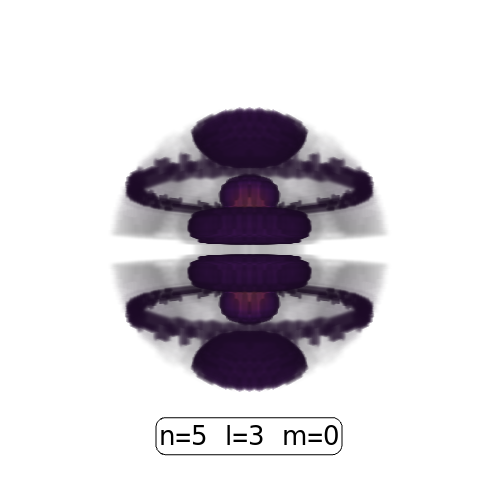
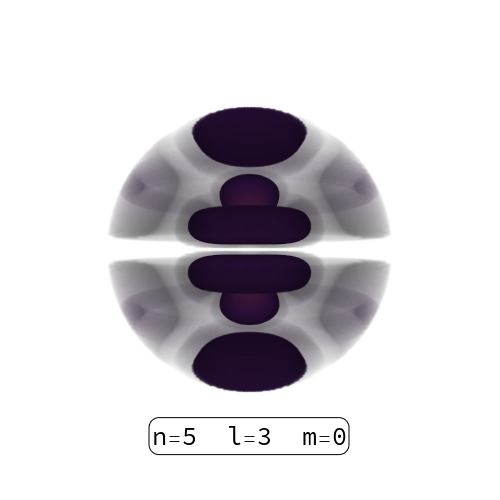
increased resolution of sample plot

Changed region(s): [[0.21, 0.21, 0.78, 0.93]]

diff --git a/hydrogenOrbitals.m b/hydrogenOrbitals.m
@@ -12,21 +12,21 @@ currently running at highest setting (pp=50)
 requires ~40 gigs of Ram, changing to a pp to a
 lower number while keeping perf = "Quality" will
 allow for lower ram usage *)
-fastPlot = True;
+fastPlot = False;
 If[fastPlot,
   {perf = "Speed", (* performance of density plot *)
    pp = 15}, (* number of plot points used in density plot *)
   {perf = "Quality",
-   pp = 50}];
+   pp = 150}];
    
 (* Animation will run 0 \[Rule] 2pi animationIncrements
 controles the radians per frame for the output *)   
 animationIncrements = \[Pi]/8;
 
 (* True will save animated table *)
-saveTableAnimation = True;
+saveTableAnimation = False;
 (* True will save a single non animated table *)
-saveSingleTable = True;
+saveSingleTable = False;
 (* True will save single orbital *)
 saveSingleOrbital = True;
 
